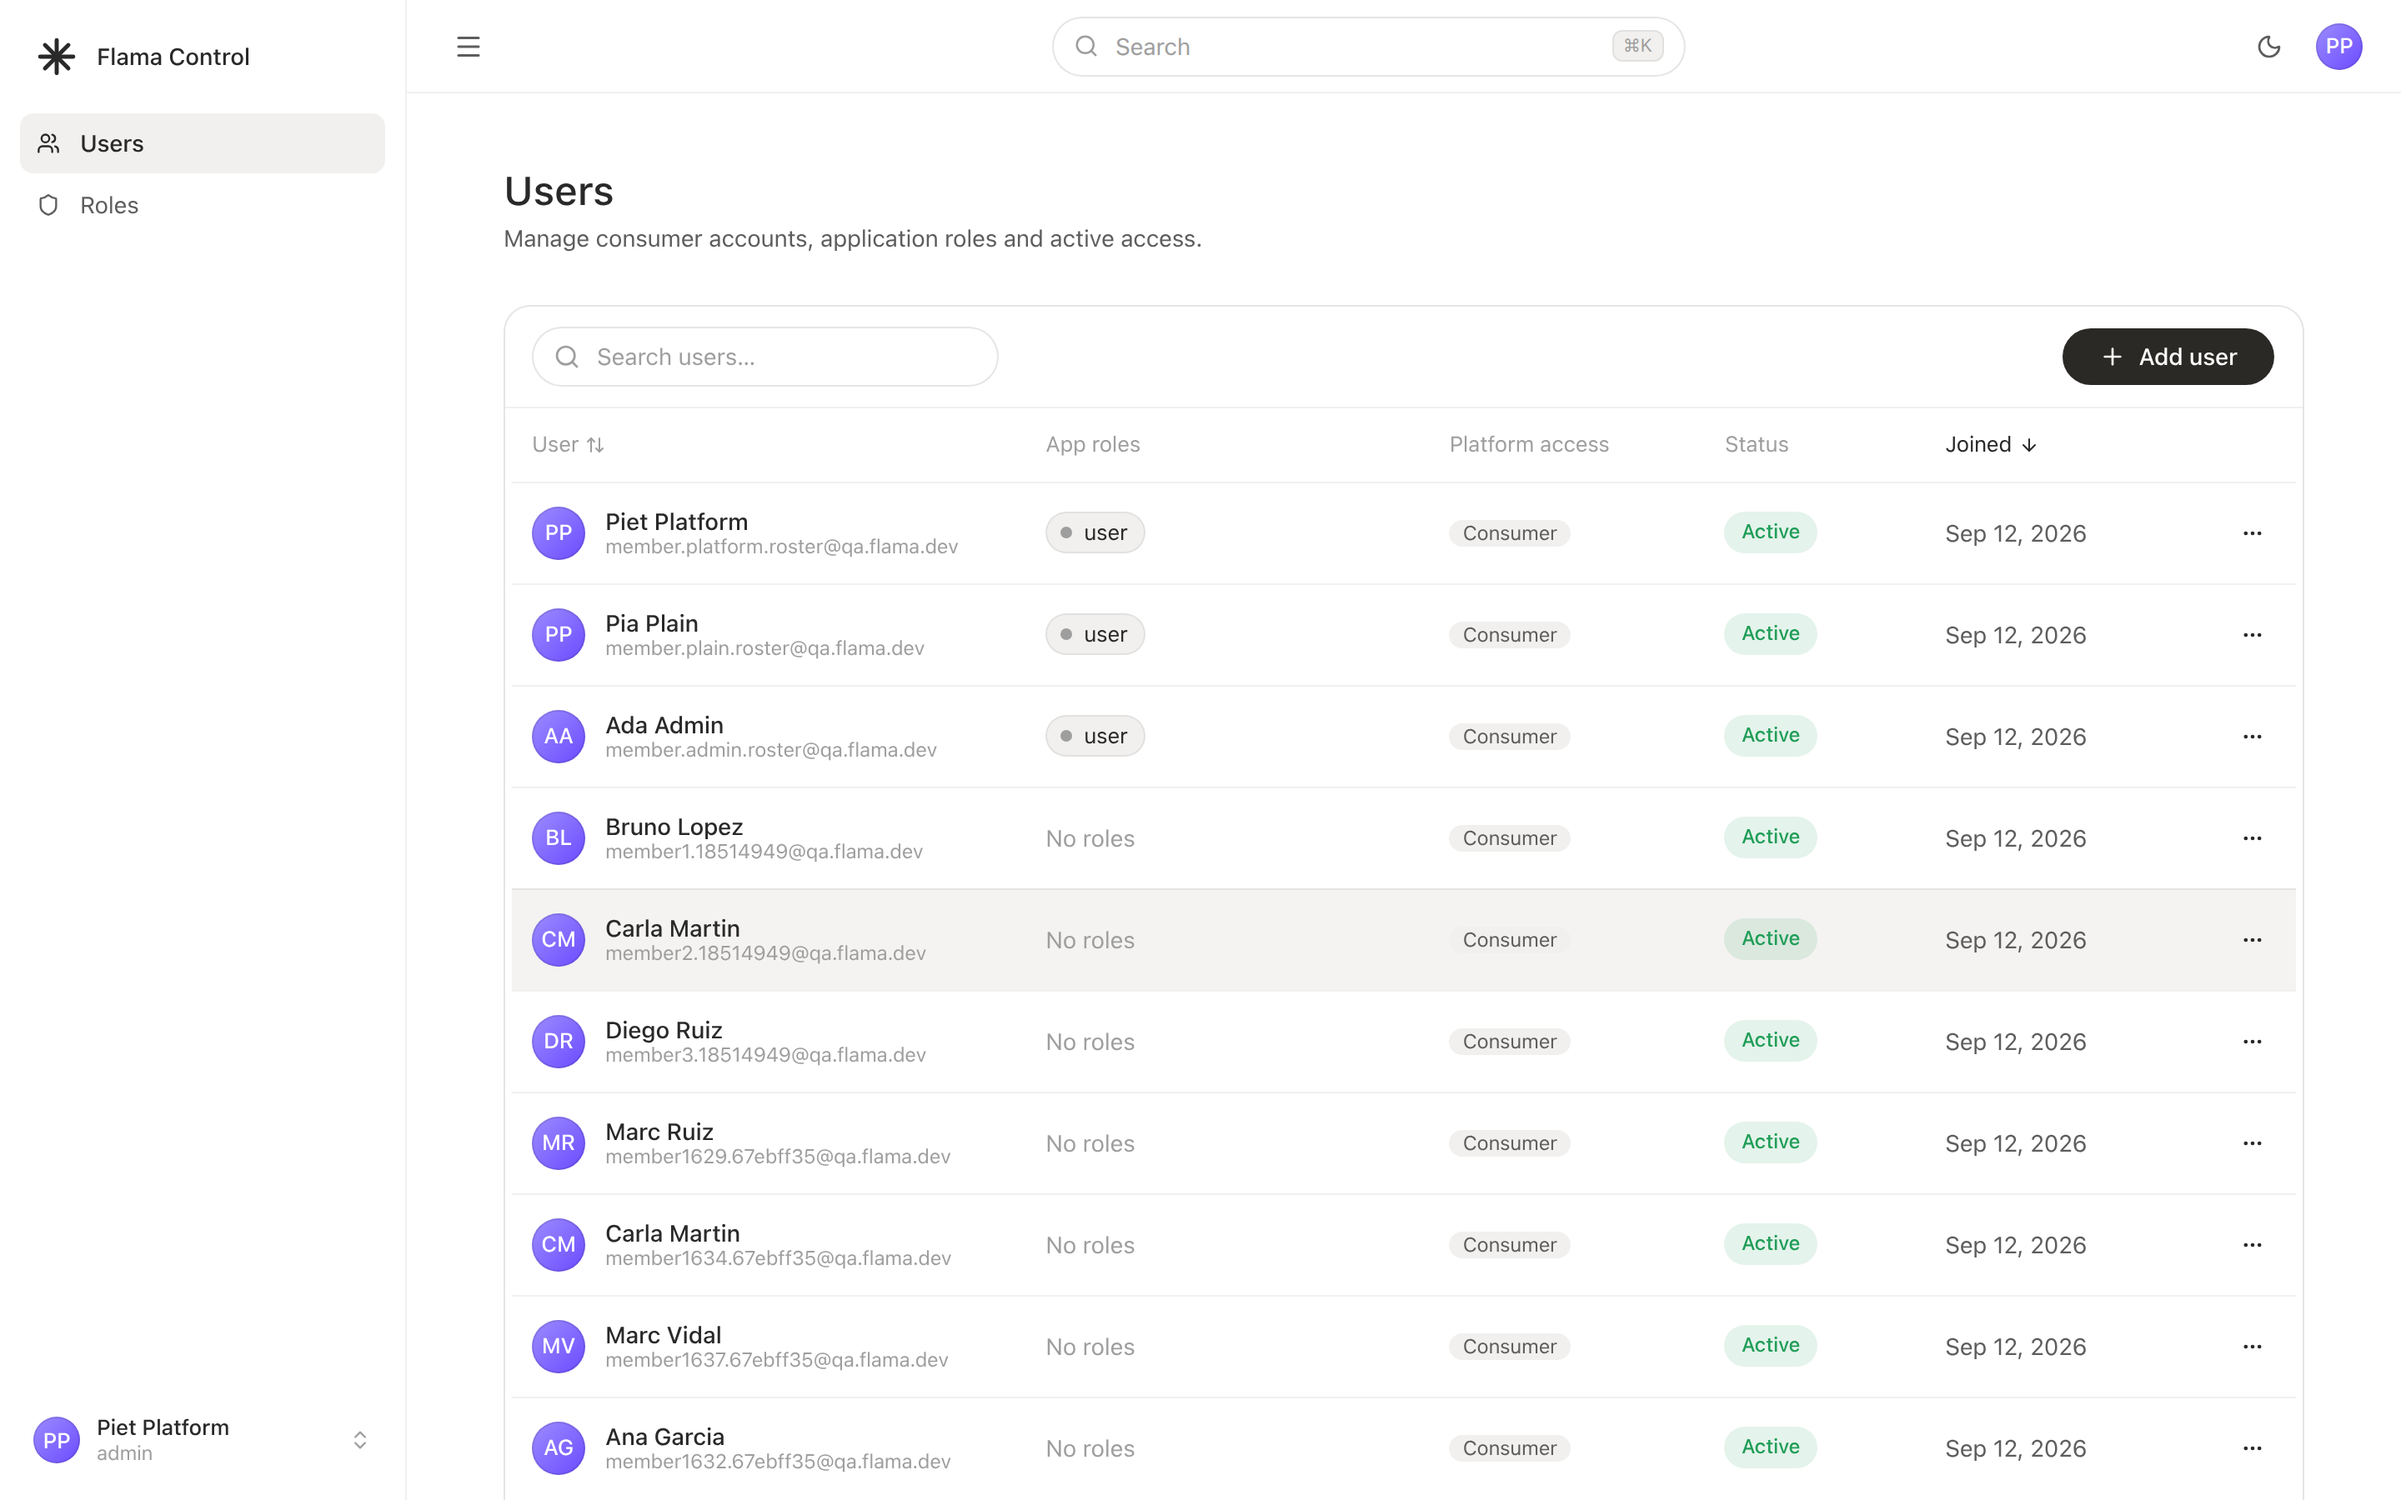
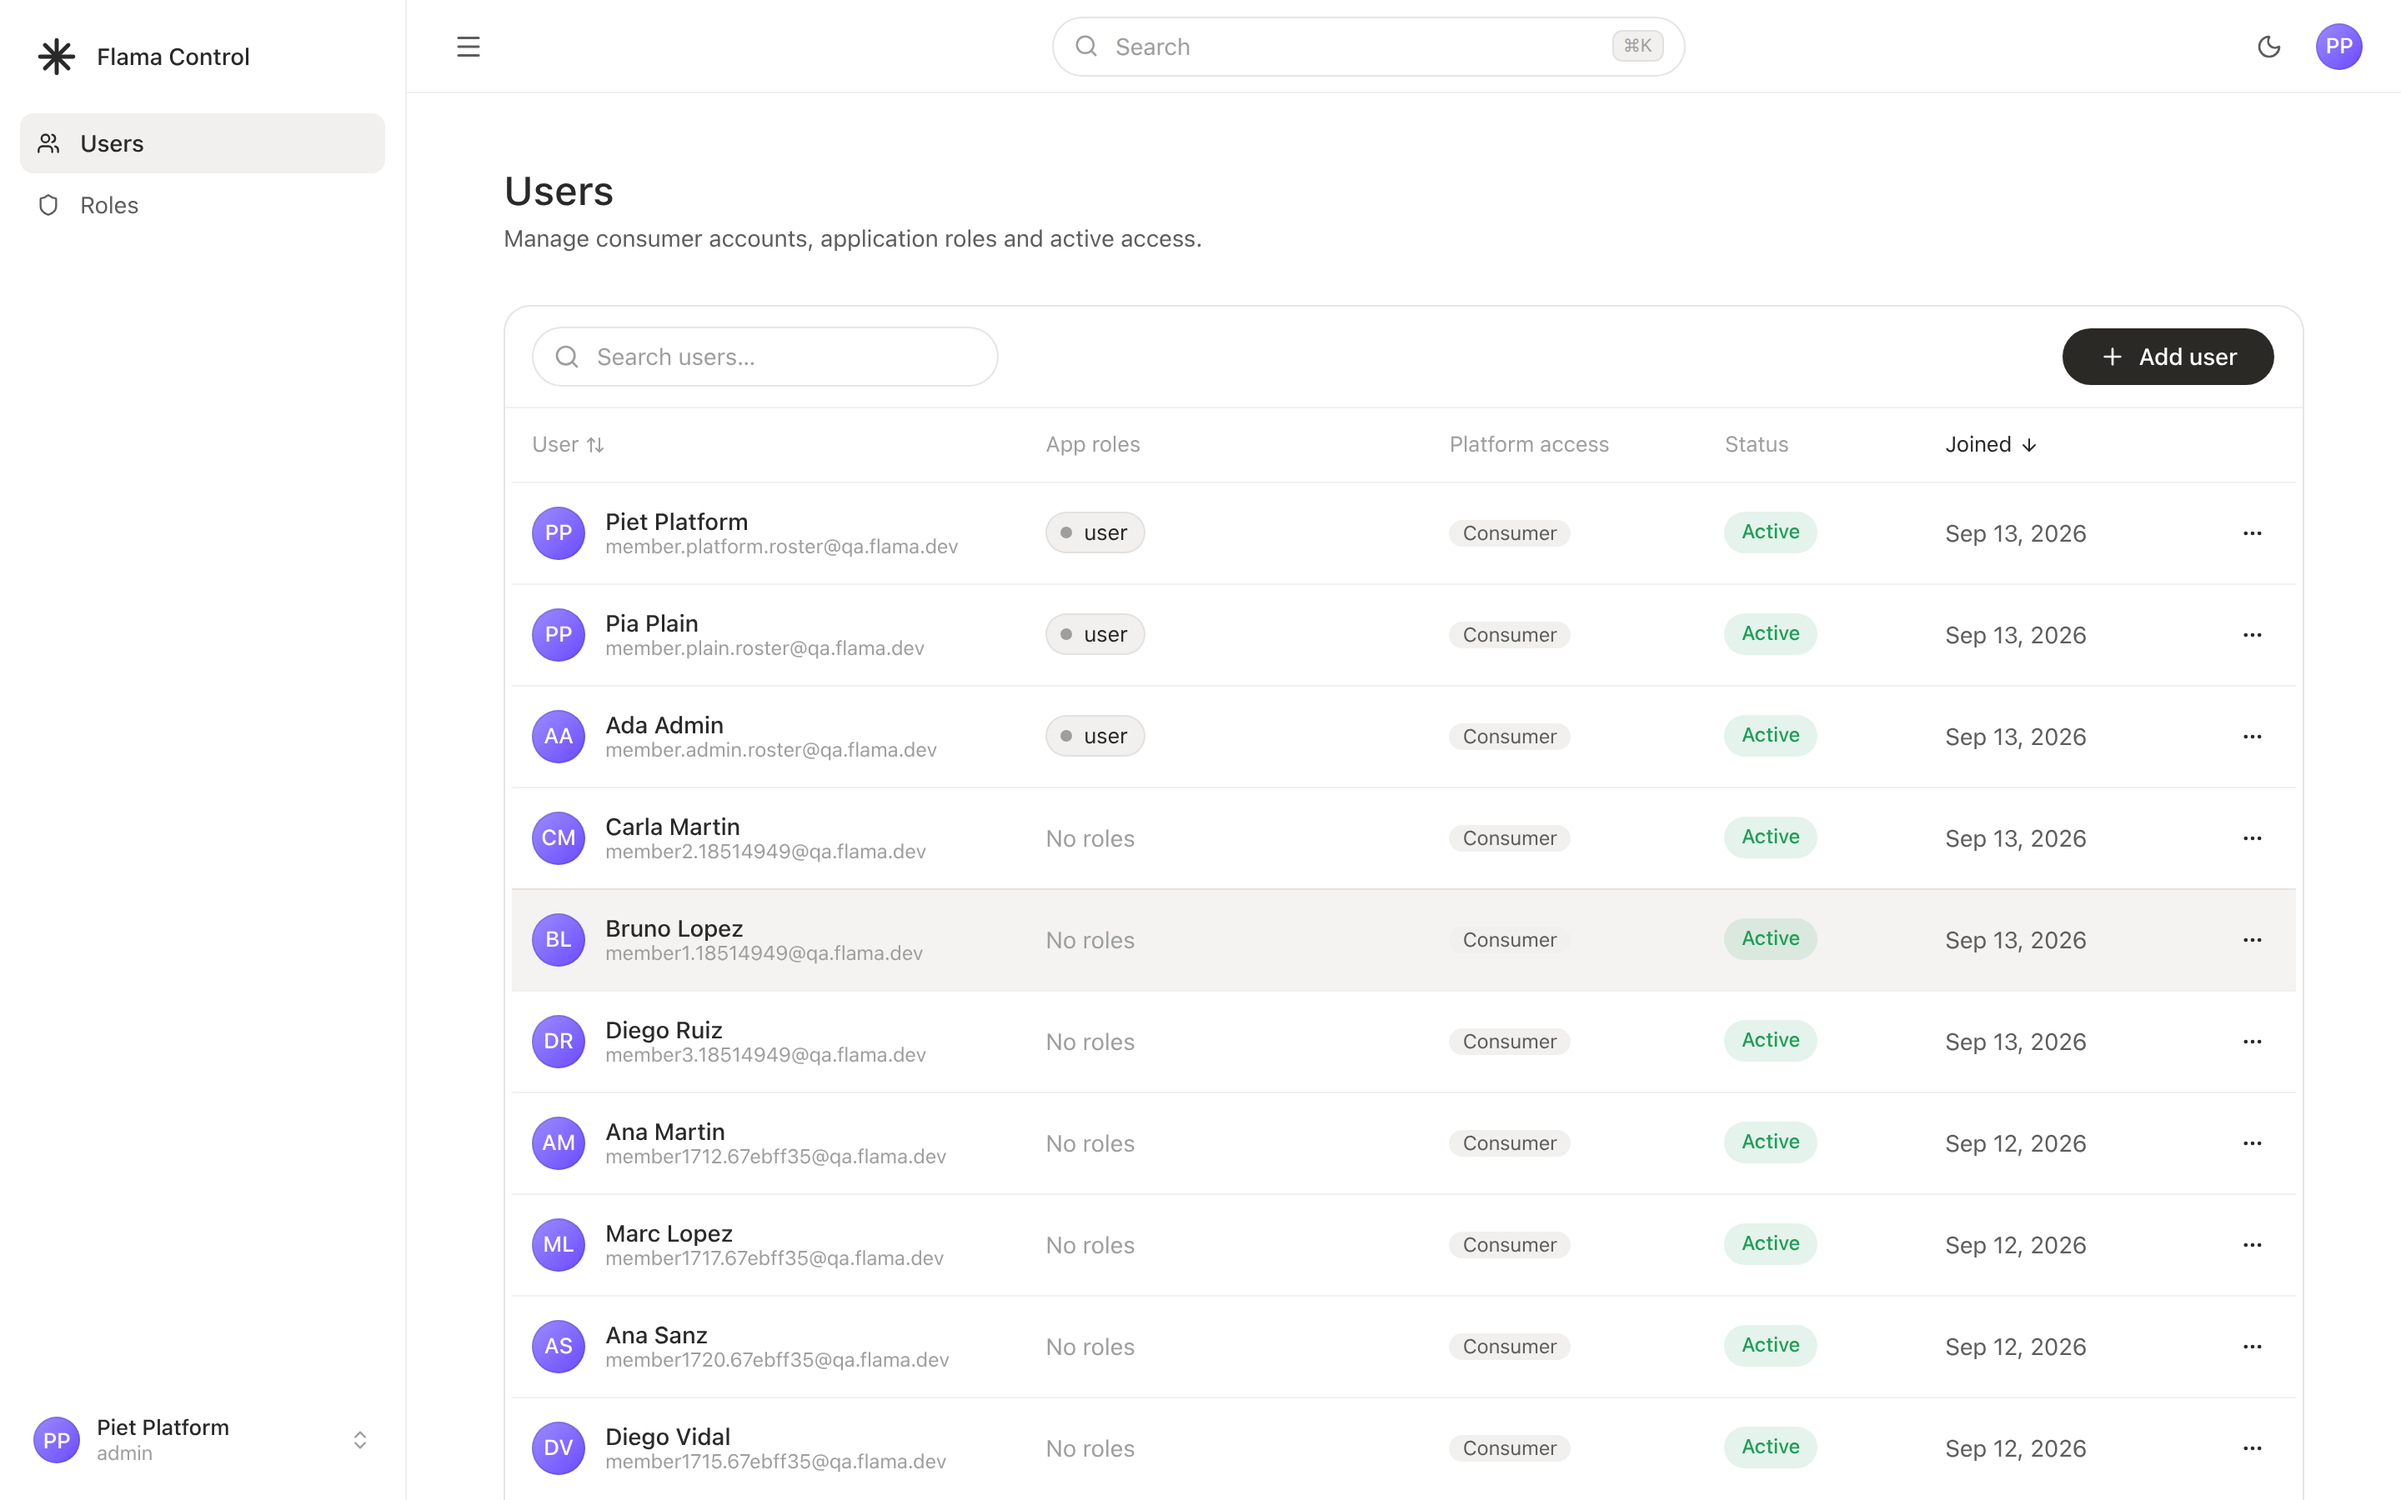
fix(qa): address the review — honest verdicts, a proven mail sink, a real reset
Three findings from the review, all of which let something pass that should
not have.

The reporter wrote `results.json` and `report.md` before the loop that fails a
scenario for missing its promised screenshots. Playwright still exited
non-zero, so the run looked red — but the artifacts on disk said passed, and
both `qa report` and `qa publish` read those. A pass could therefore be
published for a scenario whose evidence was never taken, which is the exact
drift the evidence rule exists to catch. Both writes now happen after the loop.

`mail_sink_ready` only asked whether a log file existed and was non-empty. A
previous run leaves one behind, so a developer's own `pnpm dev` on the API port
satisfied it while writing its mail to a terminal nobody reads: `qa env up`
reported a ready stack and the mail-driven scenarios then polled a stale file
until they timed out. It now follows the process actually listening on the port
to its stdout and checks that it is this log, and refuses to claim readiness on
an image where the listener cannot be identified at all.

AUTH-07 claimed to prove that a password reset signs the other device out, but
never reset anything: it ended by asserting the other device was still signed
in after an ordinary sign-out, and filed that under `other-device-revoked` —
a capture recording the opposite of its own name. It now does both halves in
order. Signing out leaves the other device alone (`other-device-survives-sign-
[…]

diff --git a/qa/specs/auth/session-revocation.spec.ts b/qa/specs/auth/session-revocation.spec.ts
@@ -1,6 +1,10 @@
 import { findUser, sessionsOf, withDb } from '../../src/db.js';
 import { scenario, signIn, WEB_URL } from '../../src/harness.js';
+import { mailCount, waitForMailLink } from '../../src/mail-sink.js';
 import { signUpThroughApi, TRANSIENT } from './accounts.js';
+
+/** What the reset sets the password to. Never the one the account signed in with. */
+const RESET_PASSWORD = 'QaRevokedChanged123';
 
 scenario('AUTH-07', async ({ page, qa }) => {
   const account = TRANSIENT.revokedMember;
@@ -88,8 +92,45 @@ scenario('AUTH-07', async ({ page, qa }) => {
     );
     await qa.shot(
       other,
+      'auth-07-other-device-survives-sign-out',
+      'The second device, still signed in after the first signed out',
+    );
+
+    // The second promise, and the one the scenario is named for. A reset exists
+    // because the reader believes their credential is compromised, so the
+    // session on the device they no longer trust has to end — and the only way
+    // to see that is to reset, then go back to that device.
+    const seen = mailCount('PASSWORD RESET', account.email);
+    await page.goto('/forgot-password');
+    await page.locator('#email').fill(account.email);
+    await page.getByRole('button', { name: /send|reset|continue/i }).click();
+    const link = await waitForMailLink('PASSWORD RESET', account.email, { after: seen });
+    qa.note(`the mail sink delivered ${link}`);
+
+    await page.goto(link);
+    await page.waitForLoadState('networkidle').catch(() => {});
+    const submit = page.getByRole('button', { name: /reset|save|change|continue/i }).first();
+    await page.locator('#password').first().fill(RESET_PASSWORD);
+    const confirmField = page.locator('#confirmPassword');
+    if (await confirmField.isVisible().catch(() => false)) await confirmField.fill(RESET_PASSWORD);
+    await page.waitForTimeout(500);
+    await submit.click();
+    await page.waitForTimeout(3000);
+
+    const afterReset = user ? await withDb((pool) => sessionsOf(pool, user.id)) : 0;
+    qa.note(`${afterReset} session row(s) after the reset`);
+
+    await other.goto('/dashboard');
+    await other.waitForLoadState('networkidle').catch(() => {});
+    qa.check(
+      'a password reset signs the other device out too',
+      other.url().includes('/login'),
+      `${other.url()} — the device the reader no longer trusts must lose its session`,
+    );
+    await qa.shot(
+      other,
       'auth-07-other-device-revoked',
-      'The second device, after the first signed out',
+      'The second device, after the password was reset from the first',
     );
     await second?.close();
   }

diff --git a/qa/src/results-reporter.ts b/qa/src/results-reporter.ts
@@ -37,15 +37,6 @@ export default class QaResultsReporter implements Reporter {
           .sort((a, b) => a.id.localeCompare(b.id))
       : [];
 
-    const results: RunResults = {
-      startedAt: this.startedAt,
-      finishedAt: new Date().toISOString(),
-      scenarios,
-    };
-    mkdirSync(ARTIFACTS_DIR, { recursive: true });
-    writeFileSync(RESULTS_FILE, JSON.stringify(results, null, 2));
-    writeFileSync(REPORT_FILE, renderReport(loadPack(), results));
-
     // Every scenario names the screenshots it promises to produce, and the
     // pack's standing rule is that a scenario which passes without its
     // evidence has been asserted rather than verified. So a missing artifact
@@ -67,6 +58,20 @@ export default class QaResultsReporter implements Reporter {
         detail: `missing: ${missing.join(', ')}`,
       });
     }
+
+    // Written only now, after the evidence loop has had its say. Writing them
+    // first left the verdict on disk disagreeing with the verdict in the exit
+    // code: `qa report` re-rendered the stale JSON and `qa publish` could carry
+    // a scenario marked passed into `docs/screenshots/` while the run that
+    // produced it had failed for missing evidence.
+    const results: RunResults = {
+      startedAt: this.startedAt,
+      finishedAt: new Date().toISOString(),
+      scenarios,
+    };
+    mkdirSync(ARTIFACTS_DIR, { recursive: true });
+    writeFileSync(RESULTS_FILE, JSON.stringify(results, null, 2));
+    writeFileSync(REPORT_FILE, renderReport(pack, results));
 
     const failed = scenarios.filter((scenario) => scenario.status === 'failed');
     console.log(

diff --git a/docs/screenshots/qa-auth-pass/run-report.md b/docs/screenshots/qa-auth-pass/run-report.md
@@ -1,6 +1,6 @@
 # QA run — flama-ai — authentication QA
 
-2026-09-12T08:25:38.364Z → 2026-09-12T08:28:11.627Z
+2026-09-13T19:55:42.723Z → 2026-09-13T19:58:09.707Z
 
 **7 passed, 1 failed** across 8 scenarios.
 
@@ -12,12 +12,12 @@
 | 🔴 | `AUTH-04` Bad credentials, bad links and bad input all fail legibly | high | 19/20 | 6 |
 | 🟢 | `AUTH-05` A self-service registration is told where it stands | critical | 9/9 | 3 |
 | 🟢 | `AUTH-06` An owner of one workspace cannot read another workspace's data | critical | 7/7 | 1 |
-| 🟢 | `AUTH-07` Signing out, and resetting a password, close every door they should | high | 9/9 | 2 |
+| 🟢 | `AUTH-07` Signing out, and resetting a password, close every door they should | high | 10/10 | 3 |
 | 🟢 | `AUTH-08` The control plane refuses everyone who is not a platform administrator | critical | 32/32 | 4 |
 
 ## 🟢 AUTH-01 — A super admin exists, signs in, and reaches the control plane
 
-*auth · critical · 7925ms*
+*auth · critical · 6686ms*
 
 > the API reports 12 rule(s) for the super admin
 > admin-auth-01-superadmin-users: 120px of this screen sat below the fold at 1440×900
@@ -35,10 +35,10 @@
 
 ## 🟢 AUTH-02 — A member resets a forgotten password and signs in with the new one
 
-*auth · critical · 50131ms*
+*auth · critical · 47036ms*
 
 > 2 session(s) open before the reset
-> the mail sink delivered http://localhost:3001/api/auth/reset-password/wt3pzlEJU3uLD0J1LWaU7WoR?callbackURL=http%3A%2F%2Flocalhost%3A3000%2Freset-password
+> the mail sink delivered http://localhost:3001/api/auth/reset-password/KqEJaMM7WDQOHuZkj5oHnZZg?callbackURL=http%3A%2F%2Flocalhost%3A3000%2Freset-password
 > 1 session(s) open after the reset
 
 - ✅ the member can be created
@@ -80,7 +80,7 @@ Terms
 
 ## 🟢 AUTH-03 — An invited person joins at the role they were invited as, and lands signed in
 
-*auth · critical · 14493ms*
+*auth · critical · 13684ms*
 
 > the admin invitee holds membership role "admin" and application role(s) owner, user
 > the member invitee holds membership role "member" and application role(s) user, user
@@ -110,7 +110,7 @@ Terms
 
 ## 🔴 AUTH-04 — Bad credentials, bad links and bad input all fail legibly
 
-*auth · high · 21617ms*
+*auth · high · 17992ms*
 
 > the account used for the transient cases is reset.member@qa.flama.dev
 
@@ -162,7 +162,7 @@ Onl
 
 ## 🟢 AUTH-05 — A self-service registration is told where it stands
 
-*auth · critical · 12984ms*
+*auth · critical · 12314ms*
 
 > registering landed on /onboarding
 > the new account holds 0 membership(s) and the application role(s) user
@@ -197,7 +197,7 @@ Crea
 
 ## 🟢 AUTH-06 — An owner of one workspace cannot read another workspace's data
 
-*auth · critical · 3789ms*
+*auth · critical · 3382ms*
 
 > the reader's workspace holds 1 members and 0 teams; the other holds 2000 members and 60 teams
 > the members endpoint returned 1 row(s)
@@ -214,10 +214,12 @@ Crea
 
 ## 🟢 AUTH-07 — Signing out, and resetting a password, close every door they should
 
-*auth · high · 12773ms*
+*auth · high · 19844ms*
 
 > 3 session row(s) after signing in on two devices
 > the other device is at http://localhost:3000/onboarding after the first signed out
+> the mail sink delivered http://localhost:3001/api/auth/reset-password/U3ATFkf6rMhr9ow4VlFugFuh?callbackURL=http%3A%2F%2Flocalhost%3A3000%2Freset-password
+> 0 session row(s) after the reset
 
 - ✅ the member can be created
 - ✅ the first device signs in
@@ -228,14 +230,17 @@ Crea
 - ✅ signing out removes the session row, not only the cookie — 3 before, 2 after
 - ✅ the signed-out device can no longer open the dashboard — http://localhost:3000/login?redirect=%2Fdashboard
 - ✅ signing out on one device leaves the other's own session alone — http://localhost:3000/onboarding
+- ✅ a password reset signs the other device out too — http://localhost:3000/login?redirect=%2Fdashboard — the device the reader no longer trusts must lose its session
 
 ![The dashboard, asked for after signing out](./auth-07-signed-out.png)
 
-![The second device, after the first signed out](./auth-07-other-device-revoked.png)
+![The second device, still signed in after the first signed out](./auth-07-other-device-survives-sign-out.png)
+
+![The second device, after the password was reset from the first](./auth-07-other-device-revoked.png)
 
 ## 🟢 AUTH-08 — The control plane refuses everyone who is not a platform administrator
 
-*auth · critical · 24222ms*
+*auth · critical · 21744ms*
 
 > admin-auth-08-platform-admin: 120px of this screen sat below the fold at 1440×900
 

diff --git a/docs/screenshots/qa-auth-pass/README.md b/docs/screenshots/qa-auth-pass/README.md
@@ -39,6 +39,7 @@ of them from being an account-enumeration oracle.
 | `auth-03-invitation-accepted-admin.png` / `-member.png`        | Two invitations at two roles, each landing signed in, with the membership role and the application role both read back from Postgres.   |
 | `auth-05-onboarding.png`, `auth-05-first-dashboard.png`        | A self-service registration sent to onboarding, told plainly it is in no workspace yet, then landed on its first dashboard.             |
 | `auth-06-tenant-isolation.png`                                 | The owner of an empty workspace, shown their own tenant while another holds two thousand members.                                       |
-| `auth-07-signed-out.png`, `auth-07-other-device-revoked.png`   | Signing out removes the session row, and the second device keeps its own.                                                               |
+| `auth-07-signed-out.png`, `auth-07-other-device-survives-sign-out.png` | Signing out removes the session row, and the second device rightly keeps its own — the two promises are separate.              |
+| `auth-07-other-device-revoked.png`                             | The same second device after a password reset, now signed out: 0 session rows remain.                                                  |
 | `admin-auth-08-owner.png`, `-admin.png`, `-plain-member.png`   | The control plane refusing three kinds of person by name, with a way out — not a blank shell, a spinner, or a bounce to the login form.  |
 | `admin-auth-08-platform-admin.png`                             | The one person it admits.                                                                                                              |
